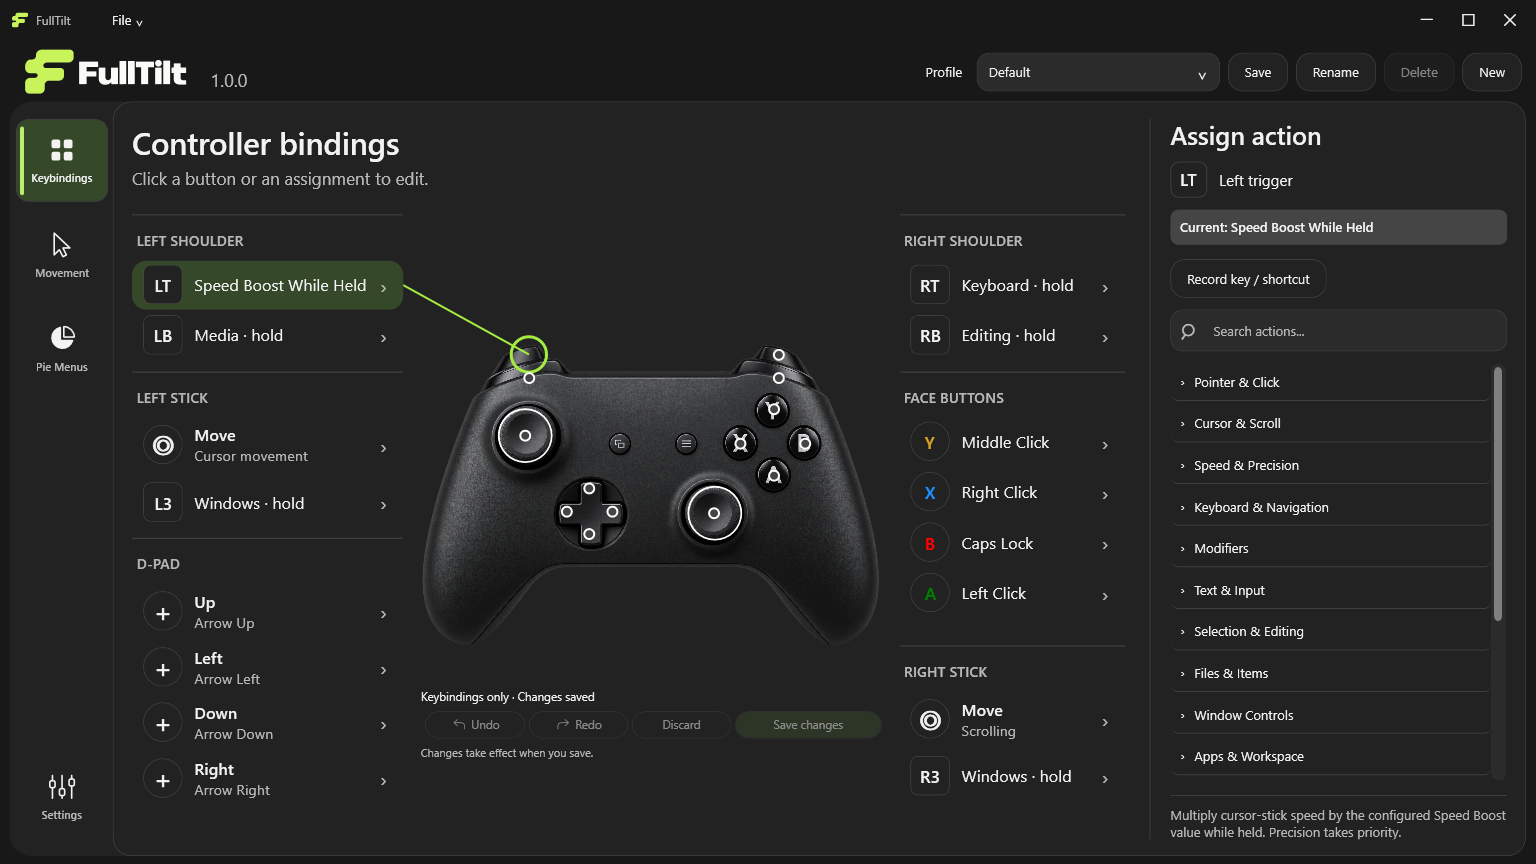
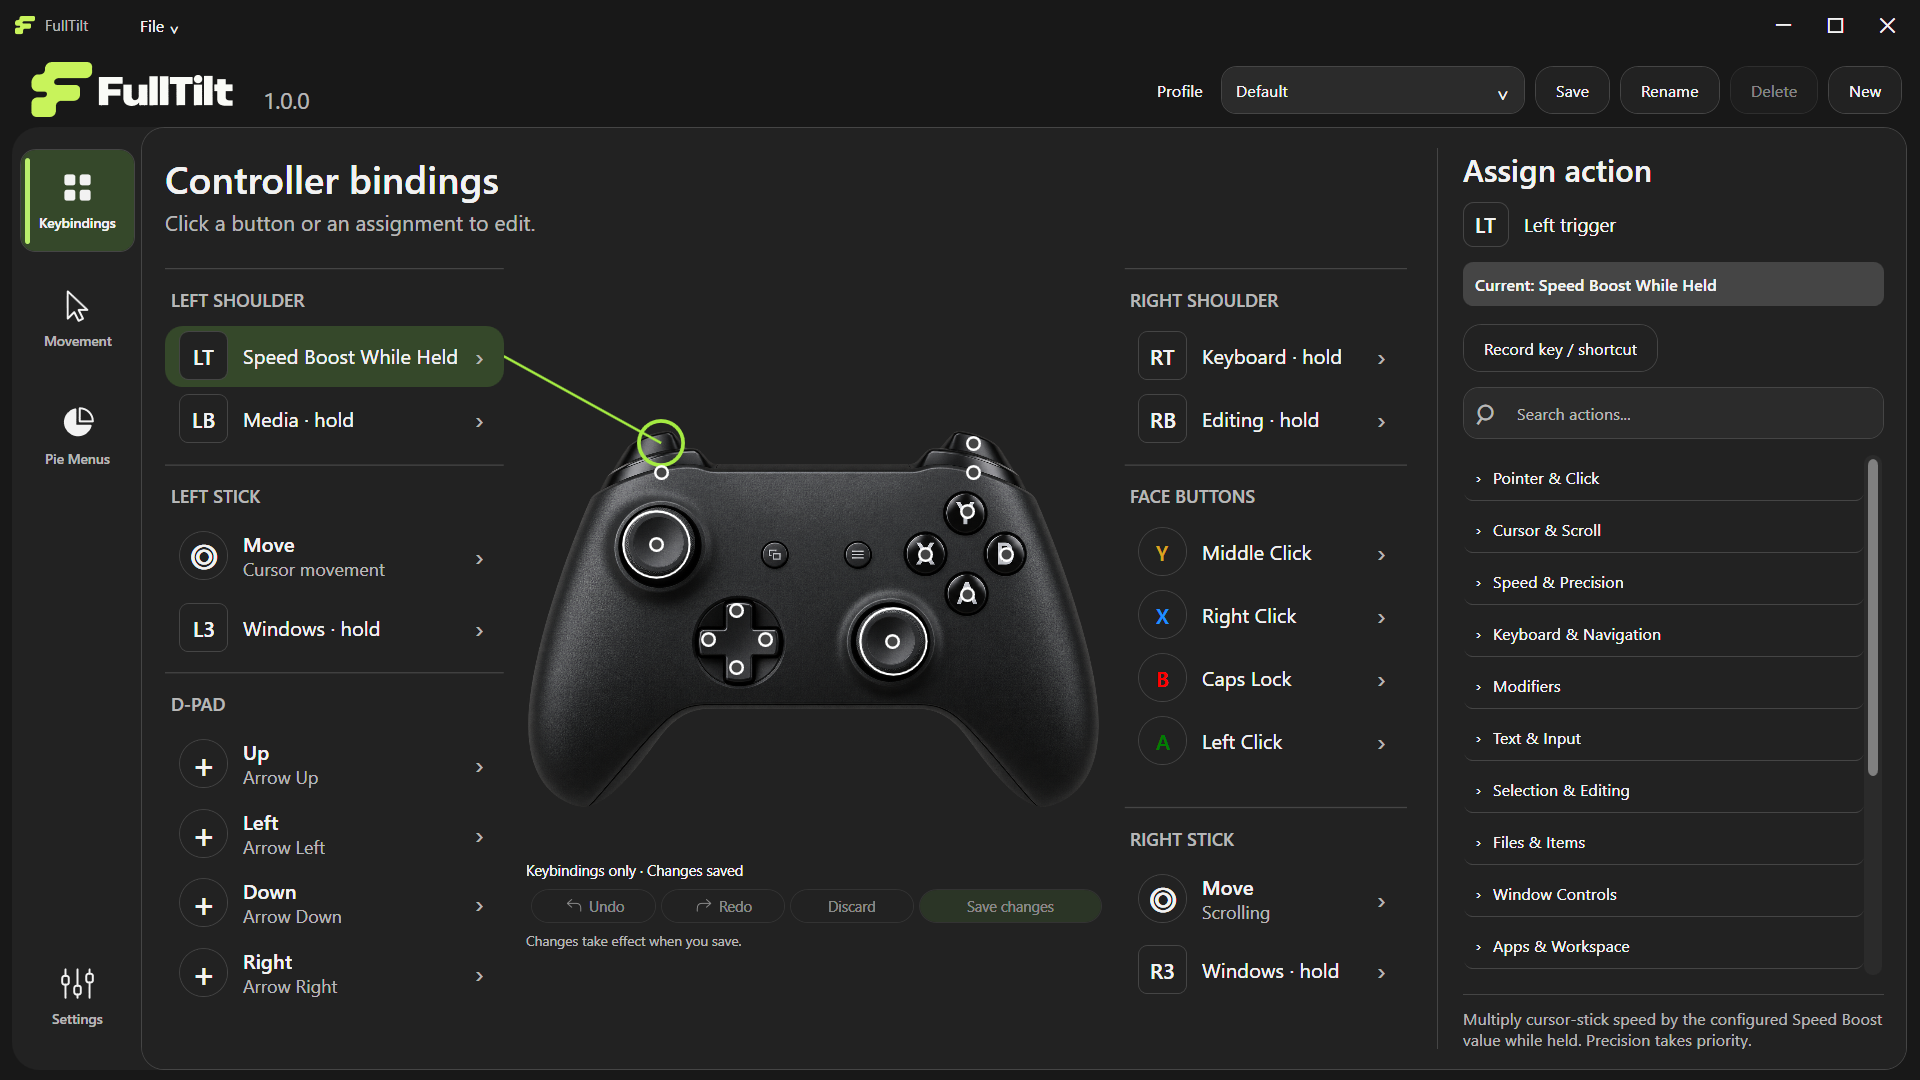
Rewrite README with real screenshots and animations
Add logo variants, feature animations and cropped screenshots, document the navigation fix as part of setup, and drop unused images.

diff --git a/README.md b/README.md
@@ -1,116 +1,209 @@
-# FullTilt
+<div align="center">
 
-**Your controller, your desktop.**
+<picture>
+  <source media="(prefers-color-scheme: dark)" srcset="docs/media/logo-dark.svg">
+  <img alt="FullTilt" src="docs/media/logo-light.svg" width="360">
+</picture>
 
-FullTilt is a free, open-source Windows application that lets you use a game controller as an alternative to a traditional mouse and keyboard. Whether you're navigating your PC from the couch or looking to reduce prolonged mouse use, FullTilt offers a different way to control your desktop.
+### Your controller, your desktop.
 
-## [Download Latest Version](https://github.com/adityabhanushali-arch/FullTilt/releases/latest)
+**Use a game controller as a mouse and keyboard on Windows.**
+Built for couch navigation, and as a gentler alternative to the mouse.
 
-Download **FullTilt-win-x64.zip** from the latest stable GitHub Release. The first public version is **1.0.0**. The link becomes available when that release is published; this repository was prepared and verified locally first.
+[![Latest release](https://img.shields.io/github/v/release/adityabhanushali-arch/FullTilt?color=C8F35B&labelColor=18251B&label=release)](https://github.com/adityabhanushali-arch/FullTilt/releases/latest)
+[![Build](https://github.com/adityabhanushali-arch/FullTilt/actions/workflows/build.yml/badge.svg)](https://github.com/adityabhanushali-arch/FullTilt/actions/workflows/build.yml)
+[![License: MIT](https://img.shields.io/badge/license-MIT-C8F35B?labelColor=18251B)](LICENSE)
+![Windows 11 x64](https://img.shields.io/badge/Windows%2011-x64-C8F35B?labelColor=18251B)
 
-![FullTilt controller bindings](docs/screenshots/keybindings.png)
+**[⬇ Download for Windows](https://github.com/adityabhanushali-arch/FullTilt/releases/latest)** &nbsp;·&nbsp; [User guide](docs/USER-GUIDE.md) &nbsp;·&nbsp; [Changelog](CHANGELOG.md)
 
-## What FullTilt does
+<br>
 
-- Move the pointer and scroll with an XInput game controller.
-- Click, drag, use keyboard shortcuts and customize controller bindings.
-- Adjust normal, precision and boosted cursor speeds independently, plus scrolling, dead zones and response.
-- Open directional pie menus with customizable segments and contextual D-pad actions.
-- Use Windows navigation, window management, editing and media commands.
-- Keep multiple profiles and portable settings, with Save/Discard and per-tab Undo/Redo for assignments.
-- Use Dark, Light or system theme, configurable pause, tray controls and optional GitHub update checks.
+<img src="docs/screenshots/keybindings.png" alt="FullTilt's Keybindings page: every controller button listed beside a picture of the controller, with the Assign action panel on the right" width="900">
 
-Windows/application permissions, keyboard layouts and target-app behavior can affect synthetic input. FullTilt does not hide the controller from games or other software.
+</div>
 
-## Requirements
+## Why FullTilt
 
-- **Windows 11 x64** (build 22000 or later).
-- An **XInput-compatible controller**, such as an Xbox-compatible gamepad. Other controller APIs require an external XInput mapping tool; FullTilt does not bundle one.
-- A writable application folder and temporary directory. No installer, administrator access, account or separately installed .NET runtime is required for the portable ZIP.
-- Internet access only for GitHub update checks and external links. Controller navigation works offline.
+FullTilt turns an Xbox-style controller into a complete pointer and keyboard for Windows. One stick moves the cursor, the other scrolls, the face buttons click, and radial **pie menus** put your shortcuts under your thumb. There is no installer, account, or service. Download, unzip, run.
 
-## Install and start
+<table>
+<tr>
+<td width="50%" valign="top">
 
-1. Download the portable **FullTilt-win-x64.zip**, rather than GitHub's source-code ZIP.
-2. Extract the complete folder to a writable location. Do not run from inside the ZIP.
-3. Connect your controller and run **FullTilt.exe**.
-4. Center the sticks and release controller buttons before input arms. Open Keybindings, Movement, Pie Menus or Settings to adjust the setup.
+### 🛋 Navigate Windows from the couch
+Browse, watch, read and manage windows from across the room without a keyboard on your lap or a mouse on a cushion. Media controls, browser tabs, window snapping and a touch keyboard are one pie menu away.
 
-The unsigned executable may show a Windows reputation prompt. The included .NET runtime extracts native files under the current user's temporary directory, which must be writable. You can start with `FullTilt.exe --paused` to begin with controller output paused.
+</td>
+<td width="50%" valign="top">
 
-### Current default setup
+### 🖱 A different way to use the pointer
+If long mouse sessions leave you uncomfortable, a controller lets you point, click and scroll with a different grip and posture. Pair it with the **Precision** and **Speed Boost** modes to keep movements small and relaxed, and customize every control to fit how you work.
 
-| Control | Default behavior |
+</td>
+</tr>
+</table>
+
+> [!NOTE]
+> FullTilt is a software tool, not a medical device. It makes no claim to treat, prevent or relieve RSI or any other condition. If you have pain, numbness or tingling, please talk to a health professional.
+
+## See it in action
+
+Everything below is the real FullTilt window, recorded from the 1.0.0 release with factory settings.
+
+### Reassign any button in a couple of clicks
+
+Pick a button on the controller or in the list, search the action library, choose an action. Edits stay as a draft until you press **Save changes**, and Undo, Redo and Discard are always one click away.
+
+<p align="center"><img src="docs/media/keybindings-assign.gif" alt="Selecting controller buttons, then searching for Copy and assigning it to the A button as an unsaved draft" width="900"></p>
+
+### Tune the cursor to your hand
+
+Normal, precision and boosted speeds are separate settings, so slow, careful pointing and fast desktop-wide sweeps both feel right. Movement changes apply instantly.
+
+<p align="center"><img src="docs/media/movement-speed.gif" alt="Dragging the Normal cursor speed slider from 600 to 2000 pixels per second and back" width="640"></p>
+
+### Hold, flick, release: pie menus
+
+Hold a button, aim with the stick, release to run the highlighted action. FullTilt ships with Media, Browsing, Windows, Editing and Keyboard menus, each with its own D-pad shortcuts while open.
+
+<p align="center"><img src="docs/media/pie-menus.gif" alt="Switching between the Media, Browsing, Windows, Editing and Keyboard pie menus in the editor" width="720"></p>
+
+### Build your own in seconds
+
+**New pie menu** creates four empty segments. Click a segment, search, pick an action. Menus can have between two and eight segments.
+
+<p align="center"><img src="docs/media/pie-build.gif" alt="Creating a new pie menu and filling its four segments with Copy, Paste, Undo and Select All" width="720"></p>
+
+### Dark, Light or follow Windows
+
+<p align="center"><img src="docs/media/themes.gif" alt="Switching FullTilt between Dark and Light themes in Settings" width="720"></p>
+
+> The images and animations show FullTilt's interface running paused on an isolated install with no controller attached. They are real captures of the app window, not recordings of controller hardware or of the pie overlay on a desktop.
+
+## Features
+
+| | |
 | --- | --- |
-| Left / right stick | Cursor / scrolling |
-| A / X / Y | Left / right / middle mouse hold |
-| B | Recorded Caps Lock, held until release |
-| D-pad | Arrow keys |
-| LT | Speed Boost while held |
-| LB / RB | Media / Editing pie menu |
-| L3 / R3 | Windows pie menu |
-| RT | Keyboard pie menu |
-| D-pad Up + B + Y | Hold together to pause or resume |
+| **Pointer & scrolling** | Cursor on either stick, separate **normal / precision / boosted** speeds, independent scroll speeds, reverse scroll, adjustable dead zones and a response curve (Linear, Balanced, Fine control or custom). |
+| **100+ built-in actions** | Mouse buttons and drag lock, arrow and page keys, modifiers, copy/paste/undo, window snap and maximize, task view, virtual desktops, browser tabs, media keys, screenshots, apps and more. |
+| **Record any shortcut** | Press a real key combination to bind it to a button, pie segment or D-pad direction. |
+| **Pie menus** | Build as many menus as you like, each with 2 to 8 segments, its own D-pad overrides and a controller button of your choice to open it. One global size setting scales them all. |
+| **Profiles** | Save and switch whole configurations. Settings are portable: they live in a `Profiles` folder next to `FullTilt.exe`. |
+| **Safe by design** | A pause shortcut (default: **D-pad Up + B + Y**), a **Release held inputs** panic button, and neutral-stick re-arming after pauses or disconnects so nothing gets stuck. |
+| **Windows navigation fix** | A bundled tool turns off Windows' built-in controller navigation so it stops competing with FullTilt, and undoes it on request. |
+| **Touch keyboard** | Show and hide the Windows touch keyboard from a controller button. |
+| **Quiet in the tray** | Closing the window keeps FullTilt running in the tray; an optional on-screen indicator shows when it is paused. |
+| **Updates you control** | Optional GitHub release checks. FullTilt never downloads or replaces itself. |
 
-These defaults capture the creator-approved saved Default profile from 2026-11-01: normal **600 px/s**, precision **200 px/s**, boosted **3000 px/s**, scrolling **10/40 steps/s**, dead zones **5%**, response **260%**, and desktop pie size **120%**. Five menus are included, including Browsing, which can be assigned to another control. The keyboard pie includes Enter, Backspace and Space D-pad overrides. Existing installations keep their saved configuration.
+<table>
+<tr>
+<td width="50%"><img src="docs/media/pie-wheel.png" alt="The Media pie menu with six segments and its D-pad overrides"></td>
+<td width="50%"><img src="docs/media/scrolling-response.png" alt="Scroll speed sliders and the Linear, Balanced and Fine control response presets"></td>
+</tr>
+<tr>
+<td align="center"><sub>Pie menus with per-menu D-pad actions</sub></td>
+<td align="center"><sub>Scrolling and cursor response</sub></td>
+</tr>
+<tr>
+<td width="50%"><img src="docs/media/pause-shortcut.png" alt="Pause shortcut editor showing the B, Y and D-pad Up combination"></td>
+<td width="50%"><img src="docs/media/dead-zones.png" alt="Left and right stick dead zone sliders"></td>
+</tr>
+<tr>
+<td align="center"><sub>A pause shortcut you can change</sub></td>
+<td align="center"><sub>Stick dead zones</sub></td>
+</tr>
+</table>
 
-Movement and Settings apply/save immediately. Keybindings and Pie Menus remain drafts until **Save changes**. **Discard**, Undo and Redo let you review edits; switching profiles or closing resolves drafts with Save/Discard/Cancel. New pie menus start with four empty segments. Menu size is global across desktop pies and profiles; the editor preview fits its own pane independently.
+<details>
+<summary><b>Light theme</b></summary>
+<br>
+<img src="docs/media/keybindings-light.png" alt="FullTilt Keybindings page in the Light theme" width="900">
+</details>
 
-Hold a pie's activation button, point the cursor-role stick at a segment, then release the same button to execute. Keep the stick centered briefly before releasing to cancel. Configured D-pad actions work while that pie is open. Pause, disconnect and Release held inputs release FullTilt-owned input and require neutral rearming.
+## Get started
 
-### Pause and exit
+1. **[Download `FullTilt-win-x64.zip`](https://github.com/adityabhanushali-arch/FullTilt/releases/latest)** from the latest release. Use that file, not GitHub's "Source code" archive.
+2. **Extract the whole folder** somewhere you can write to, such as `Documents\FullTilt`. Don't run it from inside the ZIP.
+3. **Connect your controller**, leave the sticks centered, then run **`FullTilt.exe`**.
+4. **Switch off Windows' own controller navigation** with the included Windows Navigation Fix ([next section](#important-switch-off-windows-own-controller-navigation)). Skip this only if Windows never reacts to your controller outside FullTilt.
 
-Use the configurable pause shortcut or **Settings → Pause** to suspend controller output. **Release held inputs** clears owned keys, mouse buttons and active modes. Closing the settings window keeps FullTilt running in the tray. **File → Exit FullTilt** or tray **Exit** stops the application completely after resolving pending edits.
+The .NET runtime is included, and the defaults below work immediately.
 
-## Profiles, updates and rollback
+> Windows may show a reputation prompt because the executable is not code-signed. Each release lists a SHA-256 checksum (`SHA256SUMS.txt`) so you can verify the download. Start with `FullTilt.exe --paused` to launch with controller output paused.
 
-All controller profiles, keybindings, pie menus and settings live in **Profiles/settings.json** beside FullTilt.exe. Theme, window mode and update preferences live in **Profiles/app-preferences.json**. Copy the entire Profiles folder when moving FullTilt. Startup registration is opt-in and belongs to your Windows account; re-enable it from a new location if you move the executable.
+### Important: switch off Windows' own controller navigation
 
-To update: exit FullTilt, back up your current folder, then extract the new application files over it. **Keep your Profiles folder.** Release ZIPs contain no personal Profiles, so replacing the application files leaves them intact. If using a new directory, copy Profiles there **before first launch**. Retain a separate old folder for rollback. Do not run two versions against the same settings file.
+Windows has a built-in controller navigation of its own. While it is on, your controller can also move focus around **Start, Quick Settings, notifications and the tray**, and it fights with FullTilt's cursor control. The download includes a small tool that turns that Windows feature off, and another that puts it back.
 
-**File → Check for Updates** checks the public GitHub latest stable release and shows release notes and a specific release-page link. Automatic checks run asynchronously on startup and roughly every six hours; disable or re-enable them in the update dialog. A dismissed version does not repeatedly notify automatically; manual checks always work. Offline/rate-limit/errors are distinguished from being up to date, and automatic failures stay quiet. Updates remain manual: FullTilt does not download or replace its running executable and requires no GitHub token.
+1. Open **Windows Terminal** or **PowerShell as Administrator**.
+2. Go to the **`Windows-Navigation-Fix`** folder that came in the ZIP beside `FullTilt.exe`:
 
-**Development build migration:** the former “4.8” development build has numeric version **1.4.8**, which compares newer than public **1.0.0**. Development users must manually install this first public version and copy Profiles before starting it. Public 1.0.0 then detects future public versions such as 1.1.0 normally. The profile schema remains 17; executable version changes do not reset saved settings.
+   ```powershell
+   cd "C:\Path\To\FullTilt\Windows-Navigation-Fix"
+   ```
 
-## Windows Controller Navigation Conflict
+3. Run the fix:
 
-Some Windows 11 systems use built-in controller navigation in Start, notification panels and other system interfaces, which can conflict with FullTilt's cursor controls. The download includes an optional **FullTilt-Controller-Navigation-Fix** folder. Use it only if you experience this issue.
+   ```powershell
+   powershell.exe -NoProfile -ExecutionPolicy Bypass -File .\Apply-FullTilt-Navigation-Fix.ps1
+   ```
 
-The utility requires administrator privileges and changes one machine-wide Windows registry setting. Its PowerShell entry points preserve the original value/type or absence and provide accurate restoration. It never runs automatically and is not required to install or use FullTilt. See [application and restoration instructions](FullTilt-Controller-Navigation-Fix/README.md). Windows-build behavior varies.
+4. Restart Windows if the change doesn't take effect right away.
 
+To go back to Windows' default behavior at any time, run `Undo-FullTilt-Navigation-Fix.ps1` the same way. The tool changes a single machine-wide registry value, needs administrator rights, saves your original setting first and downloads nothing. FullTilt never runs it on its own. [Details and safety notes](tools/Windows-Navigation-Fix/README.md).
 
-## More application views
+### Default controls
 
-![Movement settings](docs/screenshots/movement.png)
-![Pie menu editor](docs/screenshots/pie-menus.png)
+| Control | Does |
+| --- | --- |
+| **Left stick** | Move the cursor |
+| **Right stick** | Scroll |
+| **A / X / Y** | Left / right / middle mouse button |
+| **B** | Caps Lock (held while pressed) |
+| **D-pad** | Arrow keys |
+| **LT** (hold) | Speed Boost |
+| **LB** (hold) | Media pie menu |
+| **RB** (hold) | Editing pie menu |
+| **L3 / R3** (hold) | Windows pie menu |
+| **RT** (hold) | Keyboard pie menu |
+| **D-pad Up + B + Y** | Pause / resume |
 
-These are renders of the actual WPF application using the approved bundled defaults and an isolated, non-emulating model. They are not hardware-test evidence.
+To use a pie menu, hold its button, point the cursor stick at a segment, then release. Release with the stick centered to cancel. Everything is remappable. See the **[user guide](docs/USER-GUIDE.md)** for profiles, updates and troubleshooting.
 
-## Build, test and release
+### Requirements
 
-Contributors need **Windows**, **PowerShell 7**, **Git** and **.NET SDK 10.0.401** (later patches in that feature band are accepted by global.json). FullTilt uses C#/.NET 10, WPF and Windows XInput, with no third-party NuGet package dependencies. NuGet access may be needed for Microsoft runtime packs and vulnerability checks.
+- Windows 11 x64 (build 22000 or later)
+- An **XInput** controller, for example an Xbox controller or any pad that presents as one. Other controllers need an external XInput mapping tool; FullTilt does not bundle one.
+- A writable folder. No administrator rights, installer, account or internet connection is required; the internet is only used for optional update checks.
+
+## Privacy and safety
+
+- **No telemetry, accounts or background services.** Settings stay in the `Profiles` folder beside the app.
+- FullTilt sends mouse and keyboard input the way a physical device would. Some apps, games and elevated windows may ignore or restrict it.
+- It does not hide your controller from games or other software.
+- The source is MIT-licensed and every release is built by [GitHub Actions](.github/workflows/release.yml) from a tagged commit.
+
+Found a security problem? See [SECURITY.md](SECURITY.md).
+
+## Build from source
+
+You need Windows, PowerShell 7, Git and the .NET SDK pinned in [`global.json`](global.json). FullTilt is C# on .NET 10 with WPF and XInput, and has no third-party NuGet packages.
 
 ```powershell
-./scripts/build.ps1
+./scripts/build.ps1          # restore, build, run the test suite
 ./scripts/publish.ps1 -SkipBuild
-./scripts/verify-package.ps1
-./scripts/release.ps1 -PackageOnly
+./scripts/verify-package.ps1 # checks the published app
 ```
 
-Or run `./scripts/release.ps1` for the full local process once. It builds/tests, publishes a self-contained untrimmed Windows x64 executable, runs isolated package diagnostics, packages **FullTilt-win-x64.zip**, generates SHA-256 checksums/release notes and verifies the extracted portable runtime and settings replacement. Outputs go to `Finals/FullTilt-vVERSION-win-x64` and `artifacts/github-release/vVERSION/`. Each replaced package is snapshotted under artifacts; Profiles are retained. No local script creates or pushes tags or publishes a GitHub release by default.
+The tests use fake controllers and isolated settings: they never emulate real input. See [CONTRIBUTING.md](CONTRIBUTING.md) for the project layout and [docs/RELEASING.md](docs/RELEASING.md) for how releases are cut.
 
-GitHub Actions checks pushes/PRs without release permissions. Only an explicitly approved matching stable tag, such as `v1.0.0`, starts the separate release workflow. It verifies the package, creates a draft, attaches complete assets and then publishes. See [release preparation and approval steps](docs/RELEASING.md) and [contribution guidelines](CONTRIBUTING.md).
+## Contributing and support
 
-Version metadata lives in src/FullTilt/FullTilt.csproj. Header, About, Settings and numeric update comparison use that same version. Repository/portfolio links live in src/FullTilt/Assets/LaunchLinks.json. Runtime data, local credentials, build outputs and archives stay ignored and excluded from public packages. Automated checks use fake inputs and isolated settings; physical controller, focus, GPU blur and display transitions require manual validation.
+Bug reports and focused feature ideas are welcome in [Issues](https://github.com/adityabhanushali-arch/FullTilt/issues/new/choose), or use **File → Report a Problem** inside the app. Please read [CONTRIBUTING.md](CONTRIBUTING.md) before opening a pull request.
 
-## Report a problem or contribute
+## About
 
-Use [GitHub Issues](https://github.com/adityabhanushali-arch/FullTilt/issues) or **File → Report a Problem**. Include your FullTilt/Windows versions, controller type and reproduction steps. Remove personal data from screenshots and logs. Contributions are welcome under the [MIT License](LICENSE); read [CONTRIBUTING.md](CONTRIBUTING.md) first.
+Created by **Aditya Bhanushali**. [LinkedIn](https://www.linkedin.com/in/adityabhanushali/) · [Behance](https://www.behance.net/gallery/253243865/Motion-Design-Showreel)
 
-## Creator and license
-
-Created by **Aditya Bhanushali**.
-
-[LinkedIn](https://www.linkedin.com/in/adityabhanushali/) · [Behance showreel](https://www.behance.net/gallery/253243865/Motion-Design-Showreel)
-
-FullTilt's code, logo and controller illustration are distributed under the [MIT License](LICENSE). Microsoft runtime components retain their own licenses/notices, included with the portable build; see [THIRD-PARTY-NOTICES.md](THIRD-PARTY-NOTICES.md). FullTilt has no affiliation with controller manufacturers.
+FullTilt's code, logo and controller illustration are available under the [MIT License](LICENSE). Microsoft .NET runtime components keep their own licenses, shipped with each release; see [THIRD-PARTY-NOTICES.md](THIRD-PARTY-NOTICES.md). FullTilt is not affiliated with any controller manufacturer.
